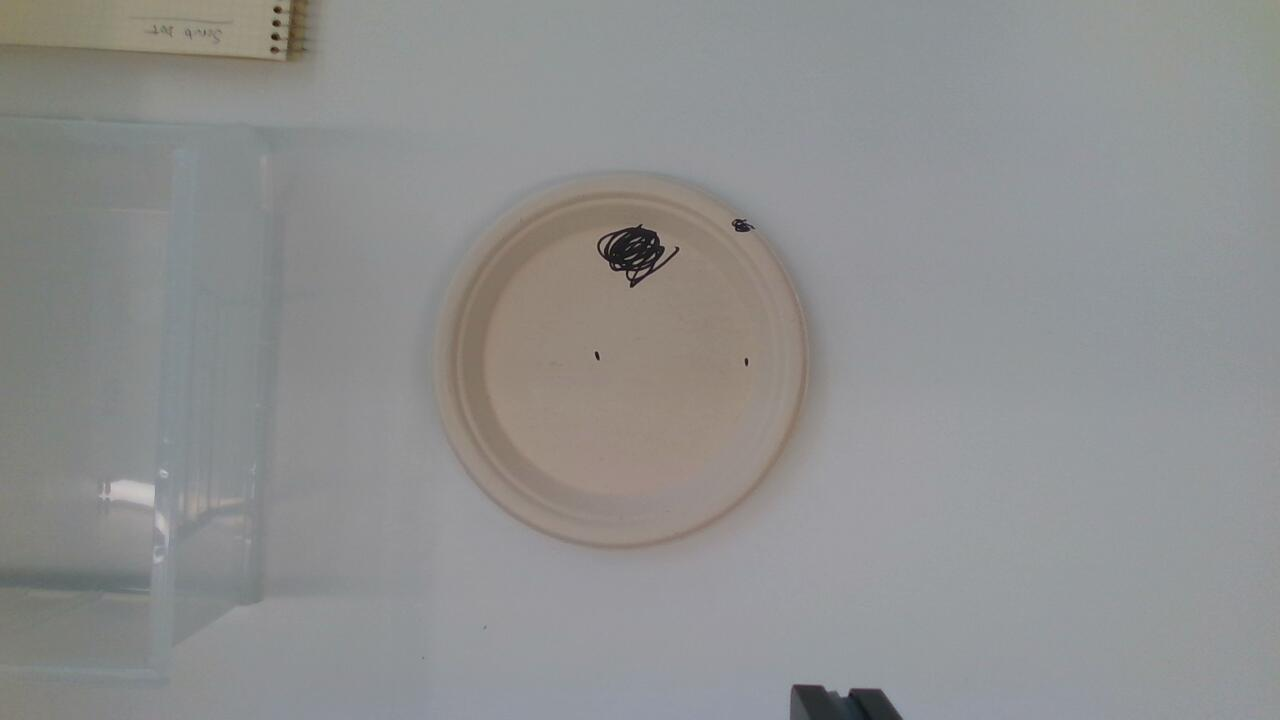
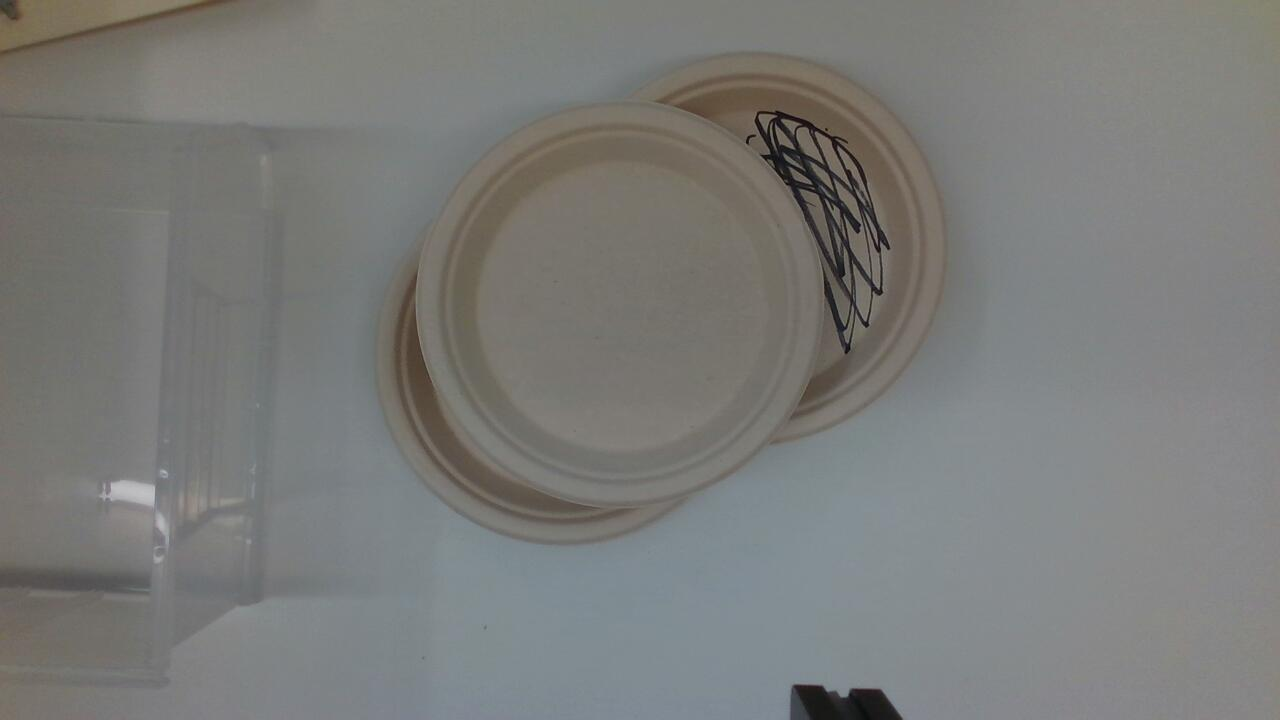
Added simple plate detection

diff --git a/main.py b/main.py
@@ -3,12 +3,17 @@
 import asyncio
 import os
 from pathlib import Path
+import cv2
 
 from dotenv import load_dotenv
 from viam.components.arm import Arm
 from viam.components.camera import Camera
+from viam.errors import ResourceNotFoundError
+from viam.media.video import CameraMimeType
 from viam.robot.client import RobotClient
 
+from plate_detection import detect_plate, draw_plate
+from set_hover import set_analysis_height
 
 def required_env(name: str) -> str:
     value = os.getenv(name, "").strip()
@@ -25,7 +30,7 @@ async def main() -> None:
         api_key_id=required_env("VIAM_API_KEY_ID"),
     )
     camera_name = required_env("VIAM_CAMERA_NAME")
-    arm_name = required_env("VIAM_ARM_NAME")
+    arm_name = os.getenv("VIAM_ARM_NAME", "").strip()
 
     machine = await RobotClient.at_address(address, options)
     try:
@@ -34,16 +39,65 @@ async def main() -> None:
             print(f"  {resource.name}")
 
         camera = Camera.from_robot(machine, camera_name)
-        arm = Arm.from_robot(machine, arm_name)
-        print(f"Ready: camera={camera.name}, arm={arm.name}")
+        print(f"Ready: camera={camera.name}")
+        arm = None
+        if arm_name:
+            try:
+                arm = Arm.from_robot(machine, arm_name)
+            except ResourceNotFoundError:
+                print(
+                    f"Arm '{arm_name}' is unavailable. Continuing with camera only. "
+                    "Check the arm configuration and logs in Viam."
+                )
+            else:
+                print(f"Ready: arm={arm.name}")
+        else:
+            print("VIAM_ARM_NAME is unset. Continuing with camera only.")
 
-        # TODO: Vision — capture an image and find dirt in plate coordinates.
+
+        if arm is not None:
+            await set_analysis_height(machine, arm)
+
+        # Take a single image to identify plate
+        images, _ = await camera.get_images()
+        extensions = {CameraMimeType.JPEG: ".jpg", CameraMimeType.PNG: ".png"}
+        image = next((img for img in images if img.mime_type in extensions), None)
+        if image is None:
+            raise RuntimeError("Camera returned no JPEG/PNG image. Check its color output configuration.")
+        output_dir = Path(__file__).parent / "captures"
+        output_dir.mkdir(exist_ok=True)
+        output_path = output_dir / f"plate{extensions[image.mime_type]}"
+        output_path.write_bytes(image.data)
+        print(f"Saved camera image: {output_path.resolve()}")
+        
+        
+        # After capturing image
+        image = cv2.imread(str(output_path))
+        if image is None:
+            raise RuntimeError(f"Could not read {output_path}")
+        
+        # System to detect plate boundaries.
+        # plate: (x, y, radius)
+        plate = detect_plate(image)
+        
+        
+        # Create image depicting plate boundaries
+        if plate is None:
+            print("No plate detected.")
+        else:
+            annotated = draw_plate(image, plate)
+            cv2.imwrite(str(output_dir / "plate_boundary.jpg"), annotated)
+            print(f"Plate center and radius in pixels: {plate}")
+        
+
+        
+        # TODO: Vision — find dirt in the captured image in plate coordinates.
         # Shared target format: {"x_mm": 25.0, "y_mm": -10.0, "z_mm": 0.0}
         # Plate origin: surface center; +Z points outward from the plate.
         # Agree on plate X/Y directions together before implementing motion.
 
         # TODO: Arm — transform a plate target to a gripper hover pose and move.
-        # No motion is commanded by this starter.
+        # Only run arm code when arm is not None.
     finally:
         await machine.close()
 

diff --git a/plate_detection.py b/plate_detection.py
@@ -1,0 +1,74 @@
+import cv2
+import numpy as np
+from pathlib import Path
+
+
+def detect_plate(img):
+    """Input image. Return the (center_x, center_y, radius) of the plate in pixels, or None."""
+
+    
+    if img is None:
+        return None
+    
+    
+    # Convert to grayscale
+    gray_img = cv2.cvtColor(img, cv2.COLOR_BGR2GRAY)
+    
+    # Blur image to reduce noise (but keep edges)
+    blur_img = cv2.medianBlur(gray_img, 5)
+    
+    
+    # Approx plate sizes at default height
+        # diameter ~= 400px
+        # radius low bound = 150px, radius upperbound = 250px
+    # Identify circles in the expected plate size
+    circles = cv2.HoughCircles(
+        blur_img,
+        cv2.HOUGH_GRADIENT,
+        dp=1.2,
+        minDist=300,
+        param1=40,
+        param2=20,
+        minRadius=180,
+        maxRadius=215,
+    )
+    
+    print(f"Circles deteceted: {circles}")
+    if circles is not None:
+        circles_outline = blur_img.copy()
+        circles = np.uint16(np.around(circles))
+        for i in circles[0, :]:
+            center = (i[0], i[1])
+            # circle center
+            cv2.circle(circles_outline, center, 1, (0, 100, 100), 3)
+            # circle outline
+            radius = i[2]
+            cv2.circle(circles_outline, center, radius, (255, 0, 255), 3)
+        
+        output_dir = Path(__file__).parent / "captures"
+        output_dir.mkdir(exist_ok=True)
+        cv2.imwrite(str(output_dir / "circle_boundaries.jpg"), circles_outline)
+            
+    # If no circles found
+    if circles is None:
+        return None
+    
+    
+    # Use best choice
+    x, y, radius = np.round(circles[0][0]).astype(int)
+    return int(x), int(y), int(radius)
+
+
+
+def draw_plate(img, plate):
+    """Returns a copy of the original image but with the plate boundary drawn."""
+    copy_img = img.copy()
+    
+    marked_img = cv2.circle(
+        img=copy_img,
+        center=(plate[0], plate[1]),
+        radius=plate[2],
+        color=(0, 255, 0),
+        thickness=2)
+    
+    return marked_img
